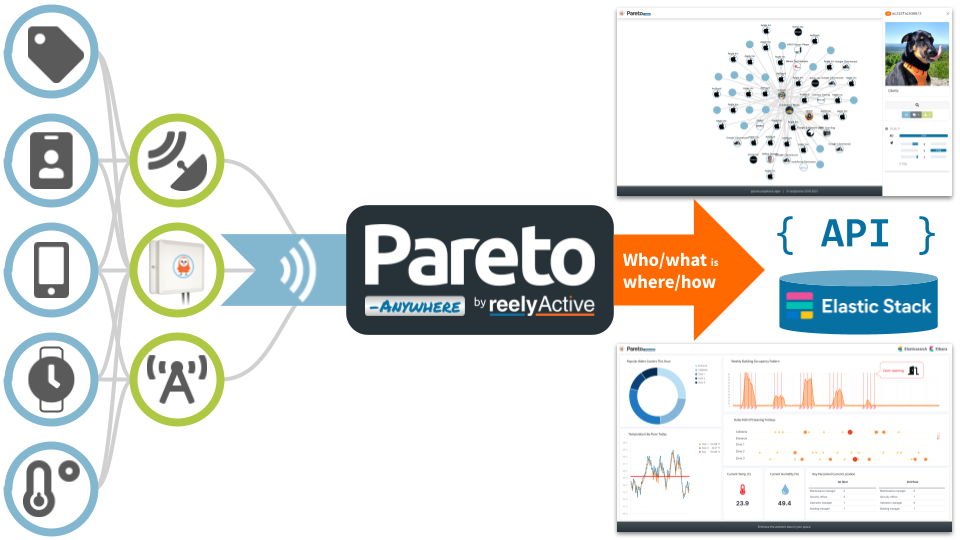
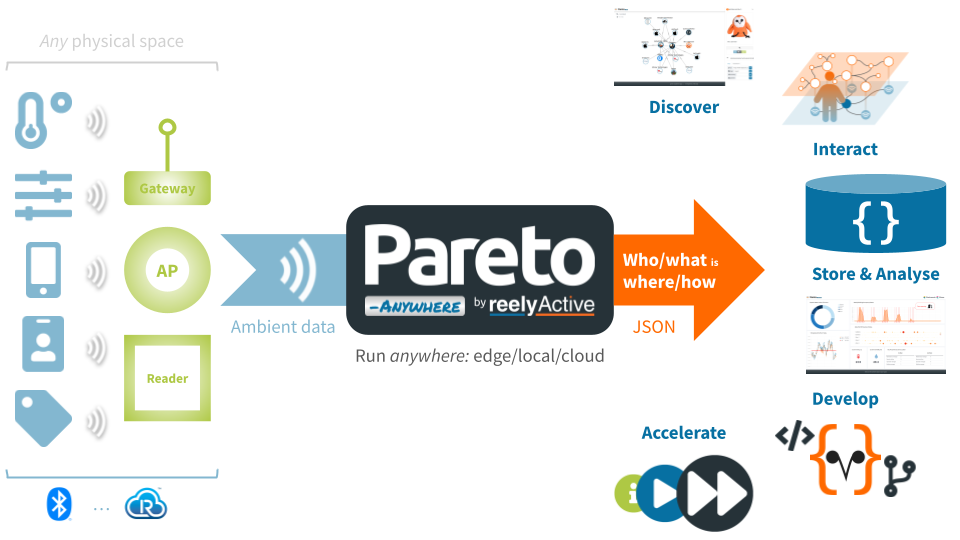
Updated Pareto Anywhere overview to emphasise value proposition

diff --git a/pareto/anywhere/index.html b/pareto/anywhere/index.html
@@ -420,12 +420,184 @@
           </div>
           <img src="../../images/pareto-anywhere-overview.png"
                class="img-fluid my-5" alt="Pareto Anywhere overview">
+          <ul class="nav nav-tabs" role="tablist">
+            <li class="nav-item" role="presentation">
+              <button class="nav-link active" id="discovertab"
+                      data-bs-toggle="tab" data-bs-target="#discovercontent"
+                      type="button" role="tab" aria-controls="discovertab"
+                      aria-selected="true"> Discover </button>
+            </li>
+            <li class="nav-item" role="presentation">
+              <button class="nav-link" id="interacttab" data-bs-toggle="tab"
+                      data-bs-target="#interactcontent" type="button" role="tab"
+                      aria-controls="interacttab"
+                      aria-selected="false"> Interact </button>
+            </li>
+            <li class="nav-item" role="presentation">
+              <button class="nav-link" id="storetab" data-bs-toggle="tab"
+                      data-bs-target="#storecontent" type="button" role="tab"
+                      aria-controls="storetab"
+                      aria-selected="false"> Store </button>
+            </li>
+            <li class="nav-item" role="presentation">
+              <button class="nav-link" id="analysetab" data-bs-toggle="tab"
+                      data-bs-target="#analysecontent" type="button" role="tab"
+                      aria-controls="analysetab"
+                      aria-selected="false"> Analyse </button>
+            </li>
+            <li class="nav-item" role="presentation">
+              <button class="nav-link" id="developtab" data-bs-toggle="tab"
+                      data-bs-target="#developcontent" type="button" role="tab"
+                      aria-controls="developtab"
+                      aria-selected="false"> Develop </button>
+            </li>
+            <li class="nav-item" role="presentation">
+              <button class="nav-link" id="acceleratetab" data-bs-toggle="tab"
+                      data-bs-target="#acceleratecontent" type="button"
+                      role="tab" aria-controls="acceleratetab"
+                      aria-selected="false"> Accelerate </button>
+            </li>
+          </ul>
+          <div class="tab-content tab-content-border">
+            <div class="tab-pane fade show active" id="discovercontent"
+                 role="tabpanel" aria-labelledby="discovertab">
+              <div class="row">
+                <div class="col-lg-4">
+                  <img src="../../images/pareto-anywhere-discover.jpg"
+                       class="img-fluid my-2" alt="Discover">
+                </div>
+                <div class="col-lg-8 align-self-center">
+                  <p class="lead mb-1"> <span class="text-primary">Discover</span> the data <em>already</em> in your space. </p>
+                  <p> <b class="text-dark">Pareto Anywhere</b> includes intuitive web apps that let you make sense of how computers represent the real-time context of any physical space. </p>
+                  <p>
+                    <a href="apps/#content" role="button"
+                       class="btn btn-sm btn-outline-primary mb-1">
+                      <i class="fas fa-eye"></i> Pareto Anywhere Apps
+                    </a>
+                  </p>
+                </div>
+              </div>
+            </div>
+            <div class="tab-pane fade" id="interactcontent" role="tabpanel"
+                 aria-labelledby="interacttab">
+              <div class="row">
+                <div class="col-lg-4">
+                  <img src="../../images/pareto-anywhere-interact.jpg"
+                       class="img-fluid my-2" alt="Interact">
+                </div>
+                <div class="col-lg-8 align-self-center">
+                  <p class="lead mb-1"> <span class="text-primary">Interact</span> in physical spaces <em>naturally</em>. </p>
+                  <p> <b class="text-dark">Pareto Anywhere</b> enables computers to make sense of <em>our</em> physical reality.  <em>You do you:</em> that's the future of human-computer interaction. </p>
+                  <p>
+                    <a href="../../context-aware-physical-spaces/#content"
+                       class="btn btn-sm btn-outline-primary mb-1"
+                       role="button">
+                      <i class="fas fa-share-alt"></i> Context-aware physical spaces
+                    </a>
+                  </p>
+                </div>
+              </div>
+            </div>
+            <div class="tab-pane fade" id="storecontent" role="tabpanel"
+                 aria-labelledby="storetab">
+              <div class="row">
+                <div class="col-lg-4">
+                  <img src="../../images/pareto-anywhere-store.png"
+                       class="img-fluid my-2" alt="Store">
+                </div>
+                <div class="col-lg-8 align-self-center">
+                  <p class="lead mb-1"> <span class="text-primary">Store</span> your data <em>anywhere</em> you please. </p>
+                  <p> <b class="text-dark">Pareto Anywhere</b> natively supports Elasticsearch, and connects to any store in a few lines of code.  Our ambient-data-logger facilitates .csv output. </p>
+                  <p>
+                    <a href="integrations/elastic-stack/#content" role="button"
+                       class="btn btn-sm btn-outline-primary mb-1">
+                      <i class="fas fa-database"></i> Elastic Integration
+                    </a>
+                    <a href="https://github.com/reelyactive/ambient-data-logger"
+                       class="btn btn-sm btn-outline-primary mb-1"
+                       target="_blank" role="button">
+                      <i class="fas fa-external-link-alt"></i> ambient-data-logger
+                    </a>
+                  </p>
+                </div>
+              </div>
+            </div>
+            <div class="tab-pane fade" id="analysecontent" role="tabpanel"
+                 aria-labelledby="analysetab">
+              <div class="row">
+                <div class="col-lg-4">
+                  <img src="../../images/pareto-anywhere-analyse.jpg"
+                       class="img-fluid my-2" alt="Analyse">
+                </div>
+                <div class="col-lg-8 align-self-center">
+                  <p class="lead mb-1"> <span class="text-primary">Analyse</span> your data <em>however</em> you please. </p>
+                  <p> <b class="text-dark">Pareto Anywhere</b> natively supports Kibana and its machine learning features.  Of course you're free to use the analytics tools most familiar to you! </p>
+                  <p>
+                    <a href="integrations/elastic-stack/#content" role="button"
+                       class="btn btn-sm btn-outline-primary mb-1">
+                      <i class="fas fa-chart-line"></i> Elastic Integration
+                    </a>
+                  </p>
+                </div>
+              </div>
+            </div>
+            <div class="tab-pane fade" id="developcontent" role="tabpanel"
+                 aria-labelledby="developtab">
+              <div class="row">
+                <div class="col-lg-4">
+                  <img src="../../images/pareto-anywhere-develop.jpg"
+                       class="img-fluid my-2" alt="Develop">
+                </div>
+                <div class="col-lg-8 align-self-center">
+                  <p class="lead mb-1"> <span class="text-primary">Develop</span> your application, not the underlying tech. </p>
+                  <p> <b class="text-dark">Pareto Anywhere</b> is <em>by</em> developers, <em>for</em> developers.  And we pride ourselves in raising the bar for open source documentation. </p>
+                  <p>
+                    <a href="https://reelyactive.github.io" target="_blank"
+                       class="btn btn-sm btn-outline-primary mb-1"
+                       role="button">
+                      <i class="fas fa-external-link-alt"></i> reelyActive Developers
+                    </a>
+                    <a href="https://github.com/reelyactive/pareto-anywhere"
+                       class="btn btn-sm btn-outline-primary mb-1"
+                       target="_blank" role="button">
+                      <i class="fab fa-github"></i> pareto-anywhere
+                    </a>
+                  </p>
+                </div>
+              </div>
+            </div>
+            <div class="tab-pane fade" id="acceleratecontent" role="tabpanel"
+                 aria-labelledby="acceleratetab">
+              <div class="row">
+                <div class="col-lg-4">
+                  <img src="../../images/pareto-anywhere-accelerate.jpg"
+                       class="img-fluid my-2" alt="Accelerate">
+                </div>
+                <div class="col-lg-8 align-self-center">
+                  <p class="lead mb-1"> <span class="text-primary">Accelerate</span> adoption with our guidance. </p>
+                  <p> <b class="text-dark">Pareto Anywhere</b> is free and open source.  Looking for the "faster" button?  Choose one of our packages and let us be your guide. </p>
+                  <p>
+                    <a href="../../business/#content" role="button"
+                       class="btn btn-sm btn-outline-primary mb-1">
+                      <i class="fas fa-people-arrows"></i> Our business
+                    </a>
+                    <a href="../../case-studies/?middleware=pa#content"
+                       class="btn btn-sm btn-outline-primary mb-1"
+                       role="button">
+                      <i class="fas fa-book-open"></i> Case Studies
+                    </a>
+                  </p>
+                </div>
+              </div>
+            </div>
+          </div>
         </div>
       </div>
       <!-- Ambient data in... ...hyperlocal context out -->
       <div class="row justify-content-center">
         <div class="col-sm-12 col-md-10 col-lg-8 col-xl-6">
-          <div class="card-group my-5">
+          <h3 class="text-center mt-5"> <b>Pareto Anywhere</b> provides a <span class="text-secondary">single standard stream</span> of real-time data, <span class="text-info">regardless of the underlying devices & technologies.</span> </h3>
+          <div class="card-group mt-3 mb-5">
             <div class="card border-0 rounded-3 hover-shadow">
               <div class="card-body">
                 <h3 class="card-title"> Ambient data in&hellip; </h3>
@@ -447,44 +619,6 @@
                 <a href="../../context/#content"
                    class="btn btn-outline-light" role="button">
                   <i class="fas fa-share-alt"></i> Hyperlocal Context
-                </a>
-              </div>
-            </div>
-          </div>
-        </div>
-      </div>
-      <!-- In real time, over time. -->
-      <div class="row justify-content-center">
-        <div class="col-sm-12 col-md-10 col-lg-8 col-xl-6">
-          <h2 class="text-center"> Data that <em>naturally</em> makes sense... </h2>
-          <div class="card-group text-center my-3">
-            <div class="card border-0 rounded-3 hover-shadow">
-              <div class="card-body">
-                <h3 class="card-title"> &hellip;in real-time </h3>
-                <img src="../../images/integrations-pareto-anywhere-apps.jpg"
-                     class="img-fluid hover-shadow"
-                     alt="Pareto Anywhere Apps">
-                <p class="card-text mt-3"> Keep closely informed about what matters to you via web applications accessible on personal devices and ambient displays alike. </p>
-              </div>
-              <div class="card-footer bg-white border-0">
-                <a href="apps/#content" class="btn btn-outline-primary"
-                   role="button">
-                  <i class="fas fa-eye"></i> Pareto Anywhere Apps
-                </a>
-              </div>
-            </div>
-            <div class="card border-0 rounded-3 hover-shadow">
-              <div class="card-body">
-                <h3 class="card-title"> &hellip;over time </h3>
-                <img src="../../images/integrations-elastic-overview-canvas.jpg"
-                     class="img-fluid hover-shadow"
-                     alt="Pareto Anywhere + Kibana Canvas">
-                <p class="card-text mt-3"> Make sense of who/what is where/how&mdash;and <em>when</em>&mdash;with your database & analytics suite of choice, such as the Elastic Stack. </p>
-              </div>
-              <div class="card-footer bg-white border-0">
-                <a href="integrations/elastic-stack/#content"
-                   class="btn btn-outline-primary" role="button">
-                  <i class="fas fa-database"></i> Elastic Integration
                 </a>
               </div>
             </div>
@@ -744,7 +878,7 @@
                       </th>
                       <td class="align-middle">
                         <b> Ambient Infrastructure </b> <br>
-                        <small class="text-muted"> Gateways, anchors, access points, luminaires, ... </small>
+                        <small class="text-muted"> Gateways, readers, access points, luminaires, ... </small>
                       </td>
                     </tr>
                     <tr>
